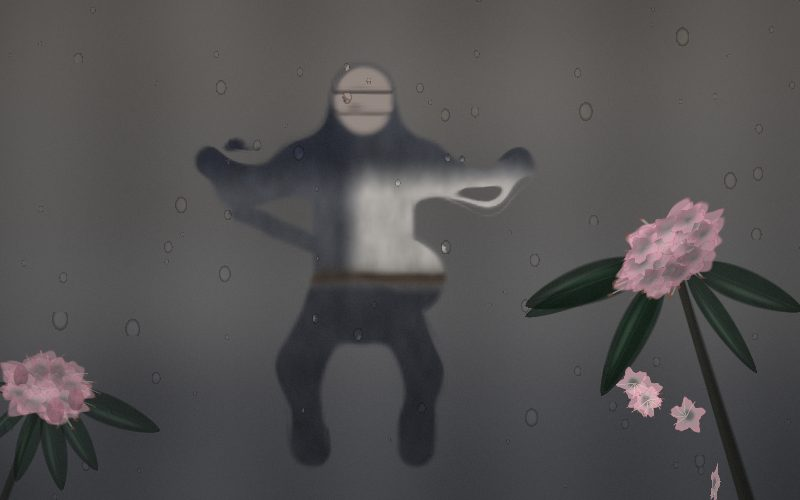
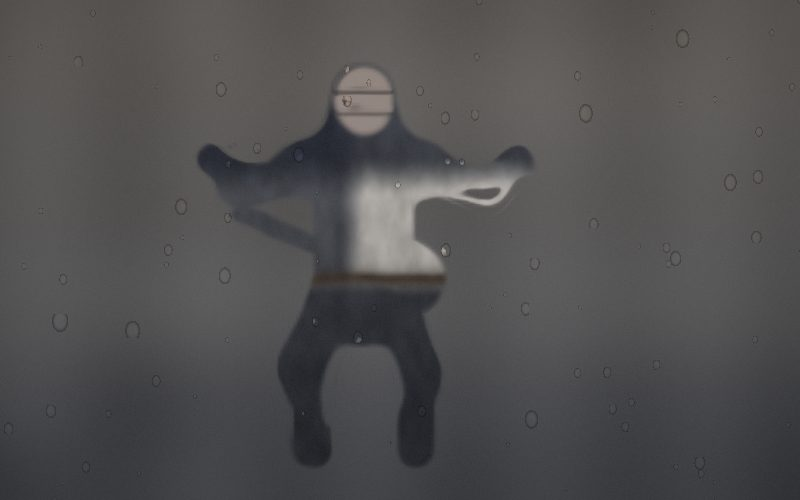
さもありなん: 石楠花の描画を一旦停止する (#99)
スライダー「石楠花」の既定値を 0.55 → 0 にし、既定で描画されないようにした。
実装(枝・葉・花房の小花・落花)はそのまま残してあるので、スライダーを
0 より上げれば元通り現れる。

様式解析 §4 と発注書に停止中である旨を明記。§3「ひとつの法則、三つの
スケール」は、生成則 phyllo() 自体は三スケールとも共有のままだが、目に
見える形で重なるのは遅延クラスタと泡の二つになる旨を追記した。

検証: static 0 error(全作品共通の gtag を除く)/ runtime 11/11 pass
(--motion --longrun)/ order 0 error。サムネイル再生成。

Claude-Session: https://claude.ai/code/session_0193D14d1SybLDp5E6kaLiCx

diff --git a/opus5_samoarinan.html b/opus5_samoarinan.html
@@ -18,7 +18,11 @@
     3. ひとつの法則、三つのスケール — 遅延クラスタ / 石楠花の花房 / 泡 が同じ
        生成則(黄金角の葉序配置)で配置される。曲の一点でだけ三つが同時に同じ形へ
        重なり、また隠れる(「フラクタル=(統合)愛」の理論が石楠花に潜んでいる)。
-    4. 石楠花は在るが主役でない — 2〜4株。見切れ・手前のピンボケ・暗がり。十数個の
+       ※現在は石楠花の描画を停止しているため、目に見える形で重なるのは
+         遅延クラスタと泡の二つ(生成則そのものは三スケールとも共有のまま)。
+    4. 石楠花は在るが主役でない ※2026-07-26 現在この描画は停止中(スライダー
+       「石楠花」の既定値 0)。実装は残してあるので、0 より上げれば以下が出る。
+       — 2〜4株。見切れ・手前のピンボケ・暗がり。十数個の
        小花が一点から放射して半球をなす花房(=多が一に見える実物)、浅く5裂の漏斗形、
        上裂片の蜜標、反り返る雄しべ、革質の輪生葉。音に派手に反応しない。
        画面外から伸びる枝の先に付き(=宙に浮いた毬にしない)、小花は時折ほどけて
@@ -73,7 +77,7 @@
     速達        アタックで古い一枚が届く円の強さ
     雨          無着色透明雨の量(息のノイズでも増える)
     泡          泡化の量と寿命
-    石楠花      花房の存在感(0で消える)
+    石楠花      花房の存在感(既定 0 = 非表示。0 より上げると株が現れる)
     音の感度    マイク入力のゲイン
     明るさ      全体の露出
     粒子        フィルムグレインの量
@@ -321,7 +325,7 @@
           parcel: 0.55,
           rain: 0.45,
           foam: 0.55,
-          truss: 0.55,
+          truss: 0.0,        // 2026-07-26 ユーザー判断で石楠花の描画を一旦停止
           micGain: 0.55,
           exposure: 1.0,
           filmGrain: 0.20,
@@ -342,7 +346,7 @@
           ["parcel", "速達", "アタックで古い一枚が届く円の強さ", 0, 1, 0.01],
           ["rain", "雨", "無着色透明雨の量(息のノイズでも増える)", 0, 1, 0.01],
           ["foam", "泡", "泡化の量と寿命", 0, 1, 0.01],
-          ["truss", "石楠花", "花房の存在感(0で消える)", 0, 1, 0.01],
+          ["truss", "石楠花", "花房の存在感(既定 0 = 非表示)", 0, 1, 0.01],
           ["micGain", "音の感度", "マイク入力のゲイン", 0, 1, 0.01],
           ["exposure", "明るさ", "画面全体の露出", 0.6, 1.4, 0.01],
           ["filmGrain", "粒子", "全面の静的グレイン", 0, 1, 0.01],

diff --git a/prompts/opus5_samoarinan_order.md b/prompts/opus5_samoarinan_order.md
@@ -38,7 +38,7 @@
 | 3 | 統合と離散: 持続音の間だけ遅れた像が寄り集まり、無音で離れる。山場は §4 の一度きり | 時間 | converge 項は「保たれた声」にのみ強く効かせる(歌っている間ずっと引き戻すと遅れが育たない) | 「時間が許す限り抱き締めて」が絵に出ない |
 | 4 | ひとつの法則、三つのスケール: 遅延クラスタ / 石楠花の花房 / 泡 が同じ黄金角の葉序で配置され、曲の一点でだけ三つが同時に重なって露わになり、また隠れる | 空間 | 共有関数 phyllo() / phylloField()。reveal は強い持続音+楽章後半で1回、以後14秒はロック | 「フラクタル=(統合)愛」が概念のままで、絵の構造にならない |
 | 5 | 泡化: 上限に達した光は像を失い、薄膜干渉色の泡になって漂い、割れて消える。固定プール=構造的に有界 | 質感 | 遅延が飽和した領域からのみ発生。縁が主で中央はほぼ透明、干渉色は膜厚で動く。背景を暗転させて泡化を示さない(=消印になる) | 「泡と化す宇宙の言葉」が出ず、蓄積も有界にならない |
-| 6 | 石楠花は在るが主役でない: 2〜4株、見切れ・手前のピンボケ・暗がり。十数個の小花が一点から放射する花房、浅く5裂の漏斗形、蜜標、反り返る雄しべ、革質の輪生葉。音に派手に反応しない | 空間 | 花房は phyllo() で配置(=法則の実物標本)。彩度は蜜標にだけ | 主役になると「潜んでいる」ではなくなる |
+| 6 | 石楠花は在るが主役でない ※2026-07-26 よりユーザー判断で描画停止(実装は保持、スライダーを上げれば復帰): 2〜4株、見切れ・手前のピンボケ・暗がり。十数個の小花が一点から放射する花房、浅く5裂の漏斗形、蜜標、反り返る雄しべ、革質の輪生葉。音に派手に反応しない | 空間 | 花房は phyllo() で配置(=法則の実物標本)。彩度は蜜標にだけ | 主役になると「潜んでいる」ではなくなる |
 
 優先度(外すとその様式に見えなくなる順): 1 > 2 > 3 > 5 > 4 > 6
 
@@ -92,7 +92,7 @@ Phase 1 ではこの表を独自の再解析で置き換えず、復唱と実装
 | parcel | 速達 | 0–1 (0.55) | アタックで古い一枚が届く円の強さ |
 | rain | 雨 | 0–1 (0.45) | 無着色透明雨の量 |
 | foam | 泡 | 0–1 (0.55) | 泡化の量と寿命 |
-| truss | 石楠花 | 0–1 (0.55) | 花房の存在感(0で消える) |
+| truss | 石楠花 | 0–1 (**既定 0**) | 花房の存在感。2026-07-26 以降は既定で非表示 |
 | micGain | 音の感度 | 0–1 (0.55) | マイク入力のゲイン |
 | exposure | 明るさ | 0.6–1.4 (1.00) | 全体の露出 |
 | filmGrain | 粒子 | 0–1 (0.20) | フィルムグレイン |
